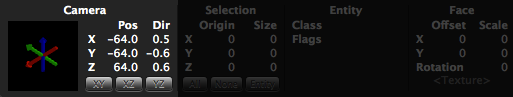
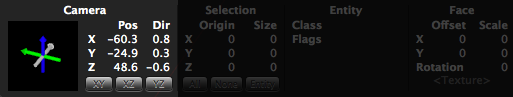
Changed brush creation tool so that the editing plane depends on the camera direction.
Bug 150 – Write the "Creating new objects" section

diff --git a/Help/camera_navigation.html b/Help/camera_navigation.html
@@ -12,13 +12,16 @@
 	<div id="container">
 		<h3>Camera Navigation</h3>
 		<p>The camera navigation in TrenchBroom is quite simple and straightforward. However, there are subtle differences between using a trackpad and using a mouse. These differences will be explained below. Generally, you always have to press and hold the <b>shift key &#8679;</b> to navigate the camera in the 3D view. Just like in Quake, the camera cannot be rolled - in other words, up is always in the positive Z direction and down is always in the negative Z direction.</p>
-		<img src="images/screenshots/camera_navigation_quick_info.png" width="513" height="97" alt="Quick info">
-		<p>To help you keep your orientation, the quick info bar at the bottom of the 3D view (see screenshot) always displays information about the current camera location and direction.</p>
+		<div class="images">
+			<img src="images/screenshots/camera_navigation_quick_info.png" width="513" height="97" alt="Quick info">
+			<div class="imagecaption">The quick info bar helps you keep your orientation.</div>
+		</div>
+		<p>To help you keep your orientation, the quick info bar at the bottom of the 3D view (see screenshot) always displays information about the current camera location and direction. The compass on the left visualizes the camera direction by rendering the coordinate axes. The X axis has red color, the Y axis has green color and the Z axis has blue color. However, one of the axes is always gray. This is the predominant coordinate axis of the camera direction, so if you are looking in the general direction of the (positive or negative) X axis like in the image above, the X axis is gray.</p>
 		<a name="controlling_the_camera"></a><h4>Controlling the Camera</h4>
 		<h5>Looking Around</h5>
 		<p>You can look around by holding the <b>shift key &#8679;</b> while clicking and dragging with the <b>left mouse button</b>.</p>
 		<h5>Moving Around</h5>
-		<p>To move the camera foward and backward, hold the <b>shift key &#8679;</b> and use the scroll wheel on your mouse. To move the camera sideways and up / down, hold the <b>shift key &#8679;</b> while clicking and dragging with the <b>right mouse button</b>. If you are using a trackpad, you can move the camera forward and backward by using the <b>three-finger zoom gesture</b> while holding the <b>shift key &#8679;</b> and you can move the camera sideways and up / down by using the <b>two-finger scrolling gesture</b> while holding the <b>shift key &#8679;</b>.</p>
+		<p>To move the camera foward and backward, hold the <b>shift key &#8679;</b> and use the scroll wheel on your mouse. To move the camera sideways and up / down, hold the <b>shift key &#8679;</b> while clicking and dragging with the <b>right mouse button</b>. If you are using a trackpad, you can move the camera forward and backward by using the <b>two-finger zoom gesture</b> while holding the <b>shift key &#8679;</b> and you can move the camera sideways and up / down by using the <b>two-finger scrolling gesture</b> while holding the <b>shift key &#8679;</b>.</p>
 		
 		<a name="orbiting_the_camera"></a><h4>Orbiting the Camera</h4>
 		<p>The camera orbit mode allows you to rotate the camera about a selectable point. To get an idea as to what this means, imagine that you define a point in the map by clicking on a brush. The point where you clicked will be the center of your camera orbit. Now image a sphere whose center is the point where you just clicked and whose radius is the distance between the camera and the point. Orbiting will move the camera on the surface of that sphere while adjusting the camera's direction so that you keep looking at the same point. Visually, this is the same as rotating the entire map about the orbit center. Of course, you are not actually rotating anything - only the camera's position and direction are modified. However, since up and down are always fixed, you cannot cross the north and south poles of the orbit sphere.</p>
@@ -34,7 +37,10 @@
 		<p>The camera will always be positioned so that it looks straight at the center of the current selection. If nothing is selected, it will look at a default point in front of the camera.</p>
 
 		<a name="navigating_to_arbitrary_objects"></a><h4>Navigating to Arbitrary Objects</h4>
-		<img src="images/screenshots/navigating_to_arbitrary_objects.png" width="393" height="319" alt"Map browser">
+		<div class="images">
+			<img src="images/screenshots/navigating_to_arbitrary_objects.png" width="393" height="319" alt"Map browser">
+			<div class="imagecaption">Jump to any object using the map browser.</div>
+		</div>
 		<p>To navigate to any object in the map, simply select it in the Map browser, located in the Map tab of the inspector. The camera will quickly be moved to the selected object.</p>
 	</div>
 </body>

diff --git a/Help/creating_new_objects.html b/Help/creating_new_objects.html
@@ -1,0 +1,25 @@
+<!DOCTYPE html PUBLIC "-//W3C//DTD HTML 4.01 Transitional//EN"
+   "http://www.w3.org/TR/html4/loose.dtd">
+
+<html lang="en">
+<head>
+	<meta http-equiv="Content-Type" content="text/html; charset=utf-8">
+	<title>TrenchBroom Help - Creating New Objects</title>
+	<link rel="StyleSheet" href="style.css" type="text/css" media="screen" />
+	<meta name="author" content="Kristian Duske">
+</head>
+<body>
+	<div id="container">
+		<h3>Creating New Objects</h3>
+		<p>There are several ways to create new brushes and entities. It is recommended that you try all of the methods explained below because it depends on the context which one is most useful. In other words, sometimes it is quicker to simply duplicate an existing brush and sometimes it is quicker to create a new brush from scratch. In the next section, you will learn how to draw new brushes with your mouse, which is the most convenient way to create new geometry.</p>
+		<p>It is very important that you understand how the view direction of the camera relates to editing. Since the mouse is a 2D input device, you cannot directly control all three dimensions when you edit objects with the mouse. For example, if you want to move a brush around, you can only move it in two directions by dragging it. Because of this, many editing operations take the view direction into account to decide which dimensions the mouse movements should be mapped to. So if you are looking down along the Z axis while you are moving a brush, your mouse movement will be mapped to the X and Y axes and the brush can only be moved on the XY plane. The plane which the mouse movement is mapped to in editing operations is called the <b>editing plane</b>. In general, TrenchBroom chooses either the XY plane, the XZ plane or the YZ plane as the editing plane depending on whether the camera looks generally in the direction of the (positive or negative) Z, Y or X axis, respectively.</p>
+		<p>
+			<img src="images/screenshots/compass.png" width="177" height="97" alt="Compass" class="inline">
+			Remember that you can use the <a href="camera_navigation.html">quick info bar</a> at the bottom of the 3D view to keep your orientation. On top of that, the compass gives you a visual hint as to which plane is the current editing plane. In the screenshot on the left, the predominant axis of the camera direction is the Y axis, which is why it has gray color. The two axes which are rendered in color make up the editing plane, which in this case is the XZ plane.</p>
+		<br clear="all">
+		<a name="drawing_new_brushes_using_the_mouse"></a><h4>Drawing New Brushes Using the Mouse</h4>
+		<p>Creating a new brush from scratch is easily done in TrenchBroom. Simply <b>left click</b> and <b>drag</b> your mouse on the 3D view to create a new cuboid. The cuboid will aligned to the current editing plane and its thickness will be set to the current grid size. You can use the mouse wheel to change the thickness of the brush.</p>
+		<p>The position of the new brush depends on where you started to draw it. If you started in the void, it is positioned at a default distance from the camera. If you started your drag on another brush, it is positioned on the point on that brushes surface where you clicked. This makes it easy to create brushes which are already correctly aligned to other brushes.</p>
+	</div>
+</body>
+</html>

diff --git a/Help/style.css b/Help/style.css
@@ -46,6 +46,12 @@ div.imagecaption {
 	font-weight: bold;
 }
 
+img.inline {
+	float: left;
+	margin: 0px 10px 10px 0px;
+	border: 10px solid #cccccc;
+}
+
 ul.menu {
 	list-style-type: none;
 	margin: 0px;

diff --git a/CreateBrushTool.m b/CreateBrushTool.m
@@ -30,67 +30,46 @@
 }
 
 - (void)beginLeftDrag:(NSEvent *)event ray:(TRay *)ray hits:(PickingHitList *)hits {
+    Camera* camera = [windowController camera];
+
     PickingHit* hit = [hits firstHitOfType:HT_FACE ignoreOccluders:NO];
-    if (hit != nil) {
+    if (hit != nil)
         lastPoint = *[hit hitPoint];
-    } else {
-        Camera* camera = [windowController camera];
+    else
         lastPoint = [camera defaultPointOnRay:ray];
-    }
 
     Grid* grid = [[windowController options] grid];
     [grid snapDownToGridV3f:&lastPoint result:&initialBounds.min];
     [grid snapUpToGridV3f:&lastPoint result:&initialBounds.max];
     [grid snapToGridV3f:&lastPoint result:&lastPoint];
     
+    const TVector3f* cameraDir = [camera direction];
+    
     if (initialBounds.min.x == initialBounds.max.x) {
-        if (ray->direction.x > 0)
+        if (cameraDir->x > 0)
             initialBounds.min.x -= [grid actualSize];
         else
             initialBounds.max.x += [grid actualSize];
     }
     if (initialBounds.min.y == initialBounds.max.y) {
-        if (ray->direction.y > 0)
+        if (cameraDir->y > 0)
             initialBounds.min.y -= [grid actualSize];
         else
             initialBounds.max.y += [grid actualSize];
     }
     if (initialBounds.min.z == initialBounds.max.z) {
-        if (ray->direction.z > 0)
+        if (cameraDir->z > 0)
             initialBounds.min.z -= [grid actualSize];
         else
             initialBounds.max.z += [grid actualSize];
     }
 
-    switch (strongestComponentV3f(&ray->direction)) {
-        case A_X:
-            if (ray->direction.x > 0) {
-                plane.point = initialBounds.min;
-                plane.norm = XAxisPos;
-            } else {
-                plane.point = initialBounds.max;
-                plane.norm = XAxisNeg;
-            }
-            break;
-        case A_Y:
-            if (ray->direction.y > 0) {
-                plane.point = initialBounds.min;
-                plane.norm = YAxisPos;
-            } else {
-                plane.point = initialBounds.max;
-                plane.norm = YAxisNeg;
-            }
-            break;
-        case A_Z:
-            if (ray->direction.z > 0) {
-                plane.point = initialBounds.min;
-                plane.norm = ZAxisPos;
-            } else {
-                plane.point = initialBounds.max;
-                plane.norm = ZAxisNeg;
-            }
-            break;
-    }
+    plane.norm = *closestAxisV3f(cameraDir);
+    if (plane.norm.x > 0 || plane.norm.y > 0 || plane.norm.z > 0)
+        plane.point = initialBounds.min;
+    else
+        plane.point = initialBounds.max;
+
 
     MapDocument* map = [windowController document];
     TBoundingBox* worldBounds = [map worldBounds];

diff --git a/CompassFigure.m b/CompassFigure.m
@@ -42,19 +42,33 @@
     
     glPolygonMode(GL_FRONT, GL_FILL);
     
-    glColor4f(1, 0, 0, 1);
+    EAxis axis = strongestComponentV3f([camera direction]);
+    
+    // X axis
+    if (axis == A_X)
+        glColor4f(0.8f, 0.8f, 0.8f, 1);
+    else
+        glColor4f(1, 0, 0, 1);
     glPushMatrix();
     glRotatef(90, 0, 1, 0);
     [self renderArm];
     glPopMatrix();
     
-    glColor4f(0, 1, 0, 1);
+    // Y axis
+    if (axis == A_Y)
+        glColor4f(0.8f, 0.8f, 0.8f, 1);
+    else
+        glColor4f(0, 1, 0, 1);
     glPushMatrix();
     glRotatef(270, 1, 0, 0);
     [self renderArm];
     glPopMatrix();
-    
-    glColor4f(0, 0, 1, 1);
+
+    // Z axis
+    if (axis == A_Z)
+        glColor4f(0.8f, 0.8f, 0.8f, 1);
+    else
+        glColor4f(0, 0, 1, 1);
     glPushMatrix();
     [self renderArm];
     glPopMatrix();

diff --git a/Renderer.m b/Renderer.m
@@ -1250,9 +1250,9 @@ int const TexCoordSize = 2 * sizeof(float);
     Camera* camera = [windowController camera];
     
     glEnable(GL_LIGHT0);
-    GLfloat ambientLight[] = { 0.2f, 0.2f, 0.2f, 1.0f };
+    GLfloat ambientLight[] = { 0.4f, 0.4f, 0.4f, 1.0f };
     GLfloat diffuseLight[] = { 0.8f, 0.8f, 0.8, 1.0f };
-    GLfloat specularLight[] = { 0.5f, 0.5f, 0.5f, 1.0f };
+    GLfloat specularLight[] = { 0.7f, 0.7f, 0.7f, 1.0f };
     GLfloat position[] = { [camera position]->x, [camera position]->y, [camera position]->z, 1.0f };
     
     glLightfv(GL_LIGHT0, GL_AMBIENT, ambientLight);

diff --git a/CompassView.m b/CompassView.m
@@ -84,9 +84,9 @@
         glShadeModel(GL_SMOOTH);
         
         glEnable(GL_LIGHT0);
-        GLfloat ambientLight[] = { 0.2f, 0.2f, 0.2f, 1.0f };
+        GLfloat ambientLight[] = { 0.4f, 0.4f, 0.4f, 1.0f };
         GLfloat diffuseLight[] = { 0.8f, 0.8f, 0.8, 1.0f };
-        GLfloat specularLight[] = { 0.5f, 0.5f, 0.5f, 1.0f };
+        GLfloat specularLight[] = { 0.7f, 0.7f, 0.7f, 1.0f };
         GLfloat lightPosition[] = { [camera position]->x, [camera position]->y, [camera position]->z, 1.0f };
         
         glLightfv(GL_LIGHT0, GL_AMBIENT, ambientLight);
